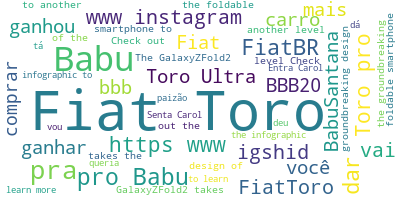
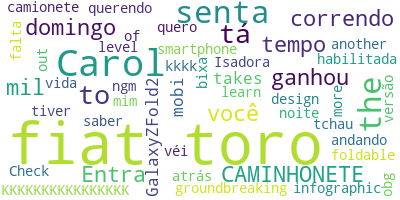
Download files function

diff --git a/src/twitter/twitter.py b/src/twitter/twitter.py
@@ -8,6 +8,7 @@ import SessionState
 # File specific imports
 from .get_tweets import get_tweets 
 from .wordcloud_twitter import word_cloud_twitter
+from binary_downloader import get_binary_file_downloader_html
 
 def render_twitter():
 
@@ -83,6 +84,8 @@ def render_twitter():
         time.sleep(1)
       word_cloud_twitter(input_stopwords, tweets)
       st.image("word_clouds/twitter/tweets.png")
+
+      st.markdown(get_binary_file_downloader_html('word_clouds/twitter/tweets.png', 'WordCloud'), unsafe_allow_html=True)
 
 
     ## TODO

diff --git a/binary_downloader.py b/binary_downloader.py
@@ -1,0 +1,8 @@
+import os
+import base64
+def get_binary_file_downloader_html(bin_file, file_label='File'):
+    with open(bin_file, 'rb') as f:
+        data = f.read()
+    bin_str = base64.b64encode(data).decode()
+    href = f'<a style="font-size: 1.10rem; font-weight: 500; background-color: #0068c9; color: white; border-radius:0.5rem; padding:0.3rem 0.8rem;" href="data:application/octet-stream;base64,{bin_str}" download="{os.path.basename(bin_file)}">Download {file_label}</a>'
+    return href
